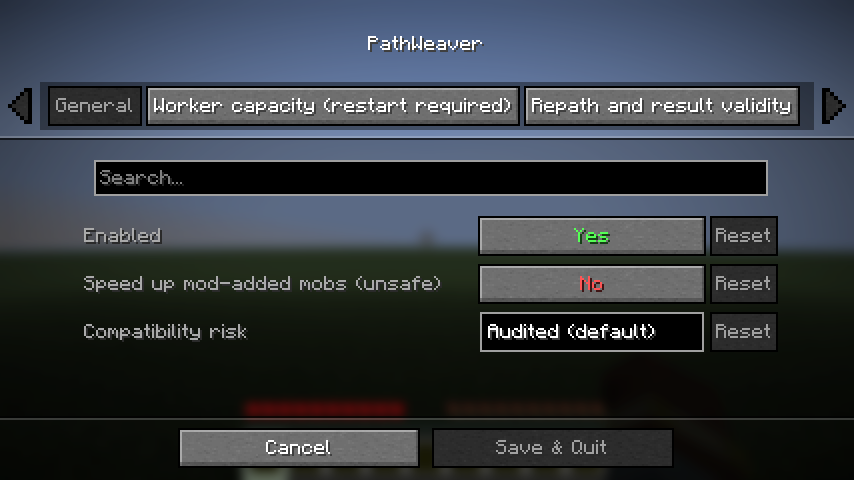
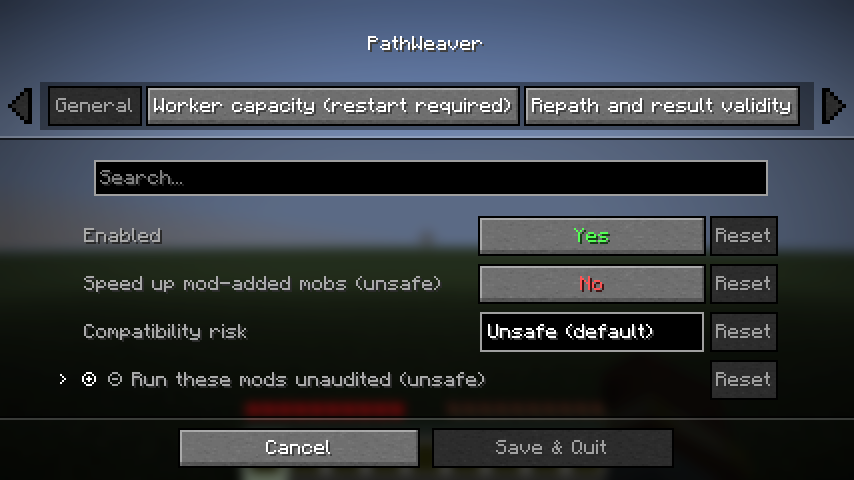
polish: the screenshot proving the GUI is right was showing labels the build no longer has
docs/evidence/config-screen-general.png was captured on 31 July. The language file
changed on 3 August, renaming the tier values -- so the committed artifact showed
"Audited (default)" for a build whose default is Unsafe, and "Unsafe (no checks)" for
a value now labelled "Unsafe (default)".

That artifact exists specifically to show the settings screen renders correctly and
without truncation. A stale one is worse than none, because it is evidence for a claim
it no longer supports.

Regenerated from a real client run and inspected rather than assumed: every label fits,
"Compatibility risk / Unsafe (default)" is not cut off, and the trustedMods row reads
"Run these mods unaudited (unsafe)". The evidence README now says how to regenerate it
and why it has to stay in step with the language file.

Changed region(s): [[0.0913, 0.7812, 0.5785, 0.8125], [0.5785, 0.6562, 0.7916, 0.7188], [0.822, 0.75, 0.9133, 0.8438]]

diff --git a/docs/evidence/README.md b/docs/evidence/README.md
@@ -10,3 +10,11 @@ Server-thread time in pathfinding: **12.38% off, 4.92% on.**
 Saved locally rather than uploaded. Open them at <https://spark.lucko.me/> via *Load from file*, or
 parse them with spark's `SamplerData` protobuf — the call tree is flattened, so each node's children
 are `children_refs` indices into the thread's node pool rather than nested objects.
+
+`config-screen-general.png` — the General category of the settings screen, captured by
+`ClientSingleplayerGameTest` on a real client at the current build. Regenerate it with
+`./gradlew runClientGameTest` and copy from `build/run/clientGameTest/screenshots/`.
+
+Keep it in step with the language file. It is the artifact that shows labels are not truncated, so a
+stale copy is worse than none: it went out of date the moment 0.5.0 renamed the tier values, and for
+two days it showed "Audited (default)" for a build whose default is Unsafe.
